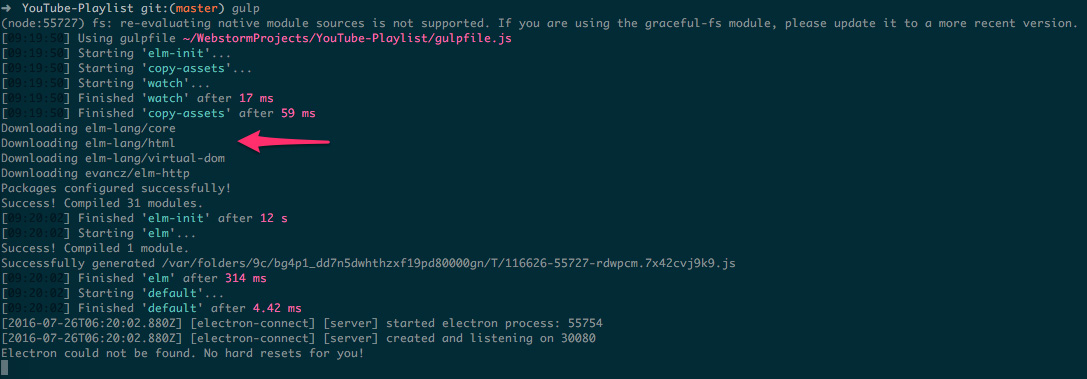
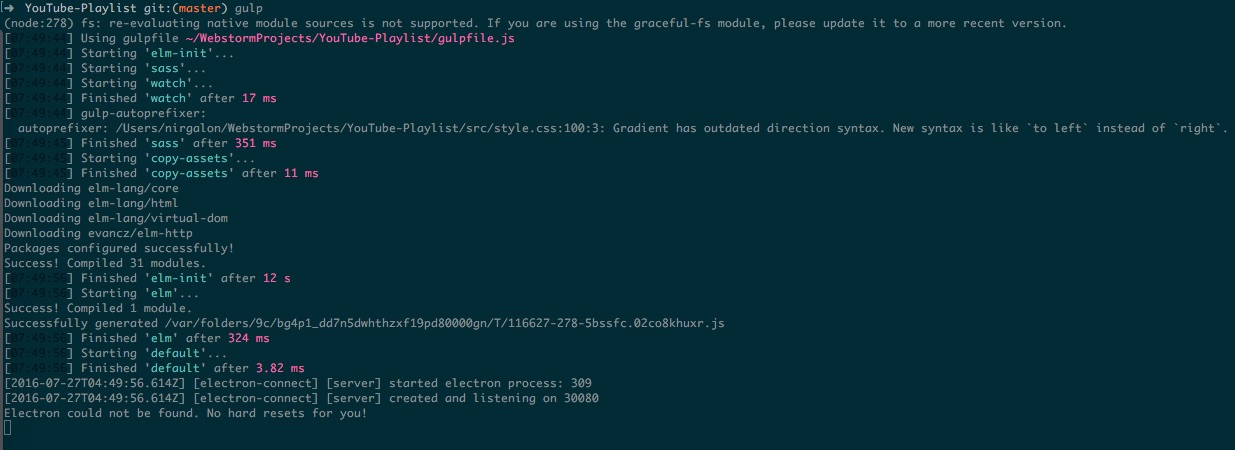
Edit to inclue sass, and add thumb.

Changed region(s): [[0.0, 0.0, 1.0, 1.0]]

diff --git a/app/_posts/2016-07-28-elm-with-electron.md b/app/_posts/2016-07-28-elm-with-electron.md
@@ -1,12 +1,12 @@
 ---
-title: "Elm and Electron - a match made in heaven"
+title: "Elm - if you can't beat them, join them"
 tags:
   - Elm
   - Electron
 permalink: "/content/elm-electron-build"
 layout: post
 author: NirGalon
-image: /assets/images/posts/docker-ci/thumb.jpg
+image: /assets/images/posts/elm-electron-build/thumb.jpg
 published: true
 ---
 
@@ -14,29 +14,30 @@ published: true
 
 I work at gizra, so it's only a matter of time until the Elm thing infect me too, and I think it's start to grow on me.
 
-I wanted to start play with it, but to build something new, not the plain old TodoMVC. My idea was to build a YouTube playlist app, so everyone can share their YouTube music links. First thing first, I take the TodoMVC in elm and get it to work on Electron.
+I wanted to start play with it, but to build something new, not the plain old TodoMVC. My idea was to build a YouTube playlist app, so everyone can share their YouTube music links. First thing first, I took the TodoMVC in elm and get it to work on Electron.
 
 [Electron](http://electron.atom.io/) enable you to build cross platform desktop apps with web technologies.
 
 In my mind we should get couple of things out of the box:
 
- * Automagically download and install elm packages.
+ * Compile SASS to css.
  * Compile elm to JS.
  * Watch and auto-reload.
+ * Automagically download and install elm packages.
  * Start the electron app.
 
-The only thing I wanted to do is `git clone ..`, `npm install`, and `gulp`.
+Just to make things clear, the only things I was willing to do are `git clone ..`, `npm install`, and `gulp`.
 
 <!-- more -->
 
-In gizra we achieve what we aim for, and open source it - because why not. So, my project called, wait for it, `YouTube-Playlist` (mind blowing), and it's on [GitHub](https://github.com/nirgn975/YouTube-Playlist).
+My project called, wait for it, `YouTube-Playlist` (mind blowing), and in gizra we achieve what we aim for and then open source it (because why not). So, of course you're more then welcome to fork the [GitHub repo](https://github.com/nirgn975/YouTube-Playlist).
 
-After you do `git clone git@github.com:nirgn975/YouTube-Playlist.git`, and `npm install`, just run `gulp` and see the magic happen:
+After you do `git clone git@github.com:nirgn975/YouTube-Playlist.git`, and `npm install`, just run `gulp` and see the magic happens:
 
 {% include thumbnail.html image_path="assets/images/posts/elm-electron-build/gulp-electron.jpg" caption="Gulp install Elm packages automagically and start Electron" %}
 
 
-After gulp will his magic, a new window will open:
+After gulp will do his magic, a new window will open:
 
 {% include thumbnail.html image_path="assets/images/posts/elm-electron-build/TodoMVC.jpg" caption="Elm code run inside Electron" %}
 
